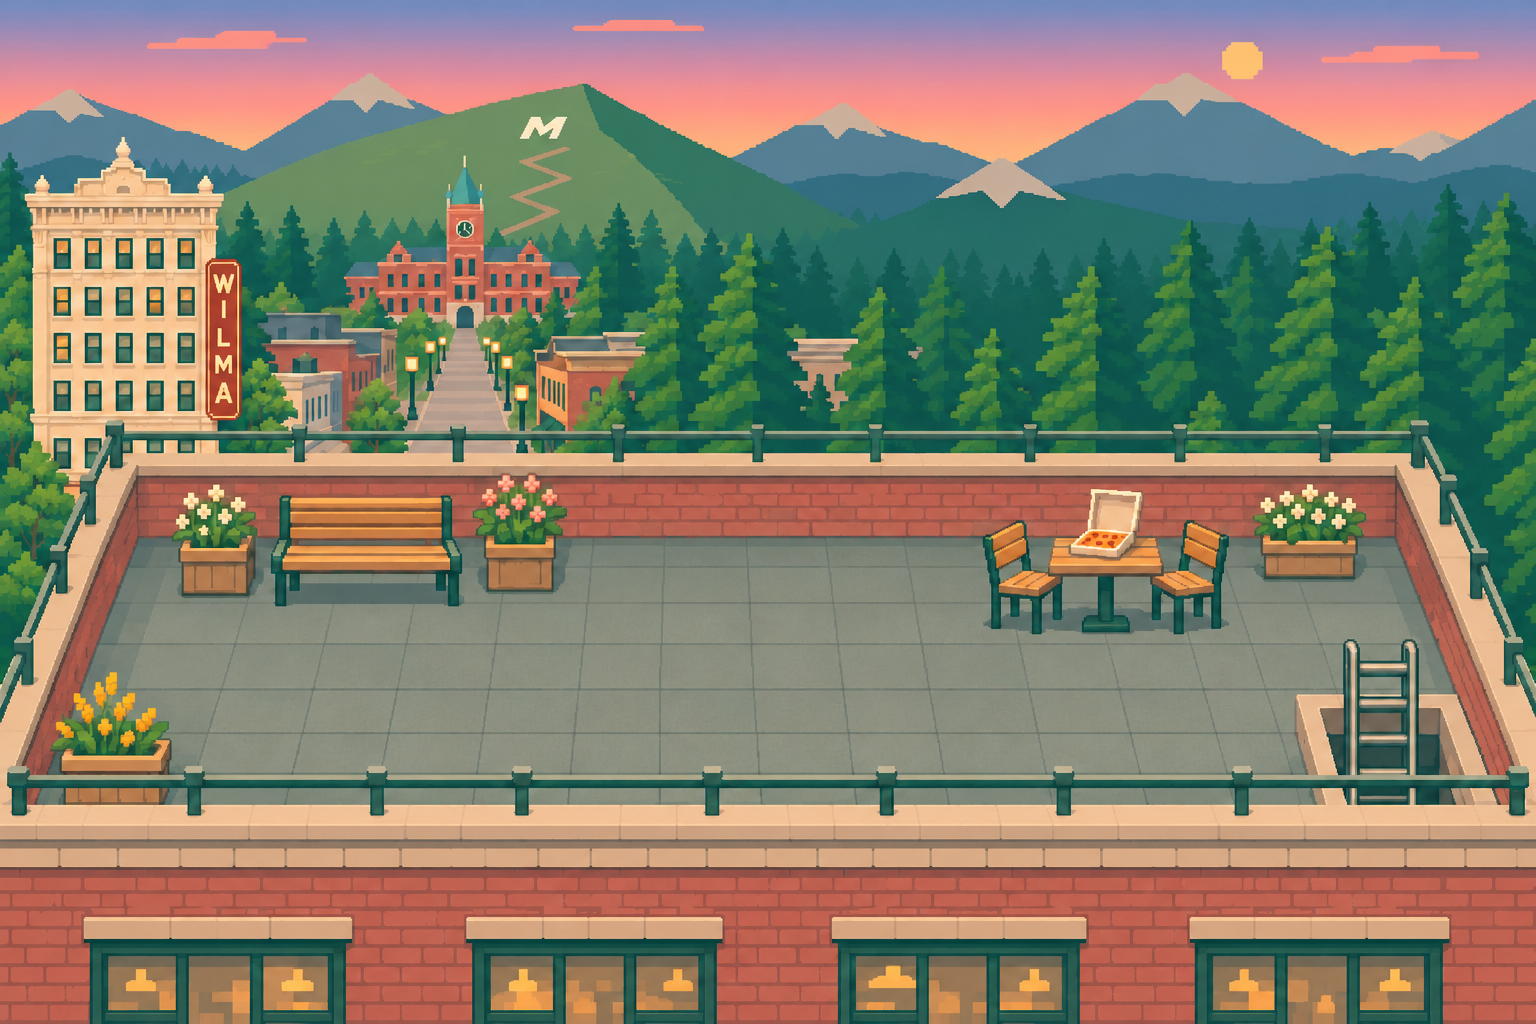
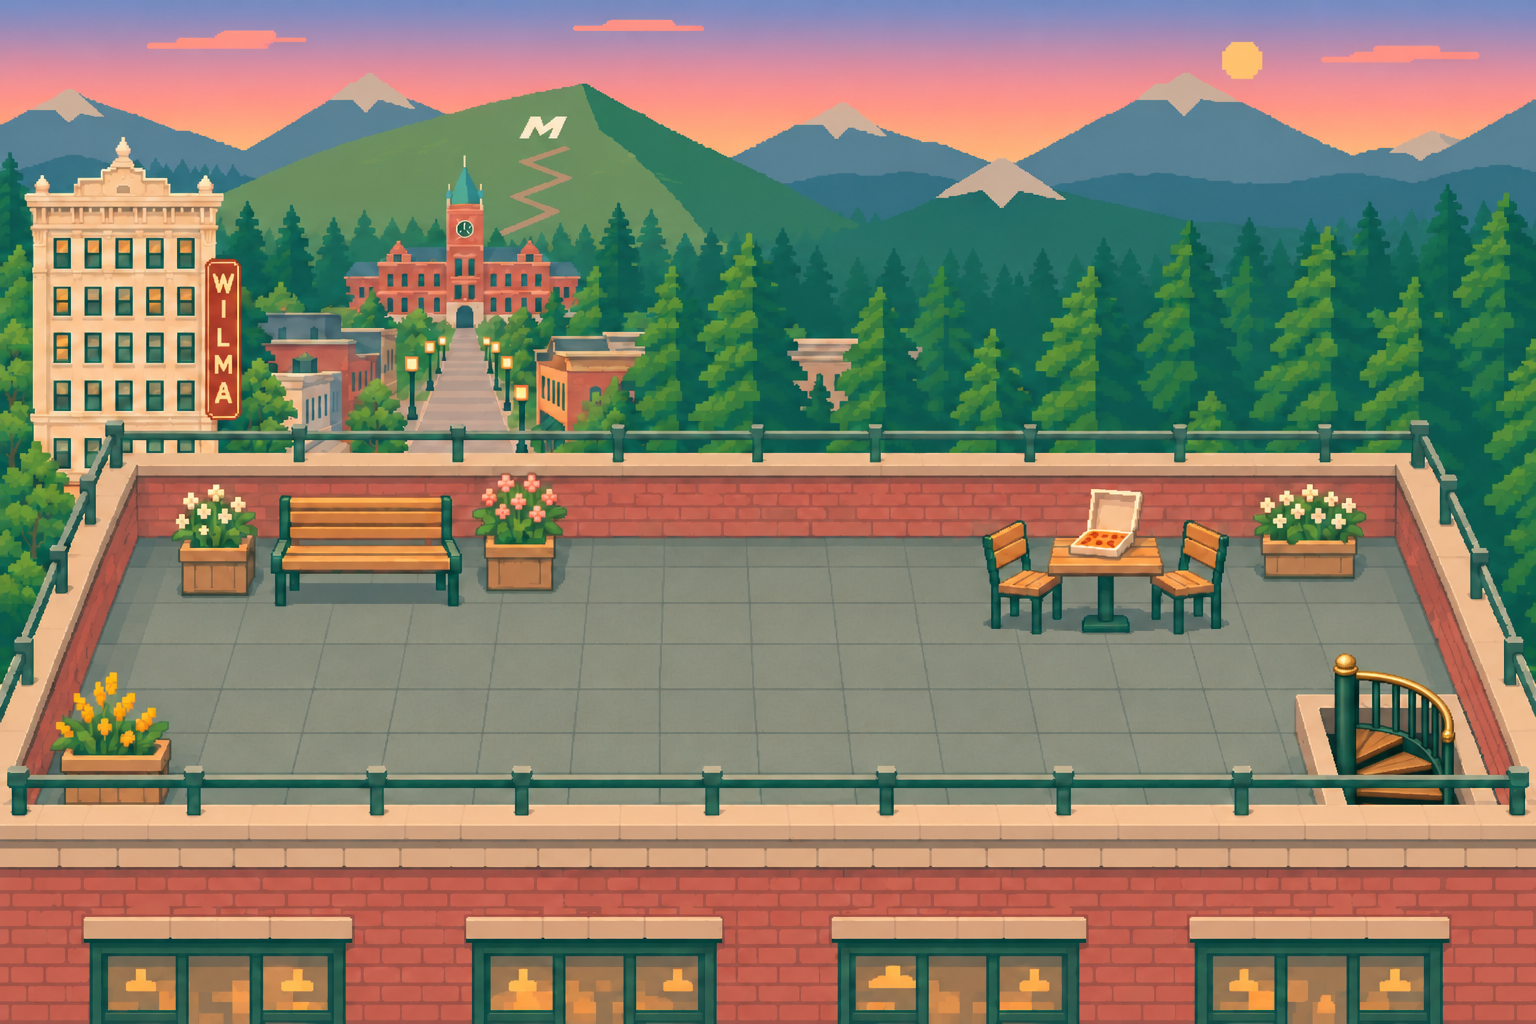
tidy arcade layout (#137)

diff --git a/eightbit/portfolio.js b/eightbit/portfolio.js
@@ -175,7 +175,7 @@ function delivery() {
     if(foundFriend('delivery')) return;
     openDialog('SIDE QUEST COMPLETE', 'pizza makes friends.', '<div class="quest-exchange" aria-label="Pizza delivered. Rooftop key received."><span>🍕</span><span>↔</span><span class="rooftop-key">⚿</span></div><p class="dialog-lead">“you made it! thanks for bringing dinner. here’s the rooftop key. head up whenever you like.”</p><button class="primary" data-room="rooftop">let’s see the view ↑</button>');
   } else if (progress.pizza === 'delivered') { if(!foundFriend('delivery')) pizza(); }
-  else openDialog('A NEIGHBOR ON THE BENCH', 'waiting on a pizza.', '<p class="dialog-lead">“if you’re heading to the arcade, could you pick up my order? it’s at the little pizza table.”</p><button class="secondary" data-room="arcade">head to the arcade →</button>');
+  else openDialog('A NEIGHBOR ON THE BENCH', 'waiting on a pizza.', '<p class="dialog-lead">“if you’re heading to the arcade, could you pick up my order? it’s at the coin counter.”</p><button class="secondary" data-room="arcade">head to the arcade →</button>');
 }
 
 async function photo() {
@@ -200,6 +200,7 @@ function handleAction(action) {
   if (action.startsWith('project:')) { openProject(action.slice(8)); return; }
   const actions = {
     directory, pets: choosePet, passport, about, work, contact, pizza, delivery, photo, help,
+    coins: () => openDialog('THE COIN COUNTER', 'a few quarters?', '<p class="dialog-lead">change for the machines, a place to leave a note, and the occasional pizza pickup for a neighbor.</p><div class="dialog-actions"><button class="primary" data-ui="pizza">ask about the delivery</button><button class="secondary" data-ui="contact">leave a note</button></div>'),
     chef: () => career('chef'), levels: () => career('levels'), recruiting: () => career('recruiting'),
     enter: () => { dismissWelcome(); toast('four friends are hiding. tap the found counter for hints.'); canvas.focus(); },
     dismiss: () => { dismissWelcome(); canvas.focus(); },
@@ -210,7 +211,7 @@ function handleAction(action) {
     campus: () => openDialog('UNIVERSITY OF MONTANA', 'at the end of the street.', '<p class="dialog-lead">a little walk past the storefronts, with mount sentinel in the background.</p><button class="secondary" data-ui="close">back to exploring</button>'),
     river: () => openDialog('ON THE CLARK FORK', "Brennan's Wave", '<p class="dialog-lead">a standing wave in the middle of Missoula. stop along the riverwalk and watch surfers and paddlers take their turns.</p><a class="text-link" href="https://www.missouladowntown.com/caras-park/brennans-wave/" target="_blank" rel="noopener noreferrer">about the wave</a>'),
     books: () => openDialog('ON THE BOOKSHELF', 'away from the keyboard.', '<p class="dialog-lead">reading, games, bjj and poker. a few ways to spend the time between making things.</p><button class="secondary" data-ui="about">a bit more about me →</button>'),
-    roof: () => progress.pizza === 'delivered' ? changeRoom('rooftop') : openDialog('A LOCKED ROOFTOP DOOR', 'someone has the key.', '<p class="dialog-lead">a note on the door: “ask the person waiting on a pizza. they know the way up.”</p><button class="secondary" data-room="arcade">check the pizza counter →</button>'),
+    roof: () => progress.pizza === 'delivered' ? changeRoom('rooftop') : openDialog('A LOCKED ROOFTOP DOOR', 'someone has the key.', '<p class="dialog-lead">a note on the door: “ask the person waiting on a pizza. they know the way up.”</p><button class="secondary" data-room="arcade">check the coin counter →</button>'),
     view: () => openDialog('ABOVE IT ALL', 'a pretty good place to pause.', '<p class="dialog-lead">thanks for taking the long way around. hope you found something you liked.</p><button class="secondary" data-ui="contact">say hello before you go ↗</button>'),
     'take-pizza': () => { progress.pizza = 'carrying'; updateInventory(); closeDialog(); toast('pizza acquired. find the neighbor on the town bench.'); },
     download: () => { world.postcard(postcardPose).toBlob(blob => { if (!blob) return; const url = URL.createObjectURL(blob), link = document.createElement('a'); link.href = url; link.download = '8-bit-missoula-postcard.png'; link.click(); setTimeout(() => URL.revokeObjectURL(url), 1000); }); },

diff --git a/eightbit/scenes.js b/eightbit/scenes.js
@@ -23,12 +23,12 @@ export const scenes = {
   arcade: {
     name: 'last best arcade', subtitle: 'quarters in. real world out.', width: 768, height: 512,
     spawn: { x: 384, y: 456 }, bounds: [16, 256, 752, 504], grid: 8,
-    obstacles: [[24,256,144,96], [560,256,180,104], [16,336,112,156], [628,344,120,136], [165,340,80,70]],
+    obstacles: [[100,256,100,70], [60,300,105,80], [16,360,108,84], [495,305,165,110], [630,30,120,450], [176,345,134,98]],
     points: [
       ...[['lilgotchi','meet lilgotchi',240],['snowcrust','play snowcrust',288],['relay','try relay',336],['fight','fight terminal',384],['sweat','mr game and sweat',432],['moonbean','moonbean coffee',480],['reachoutt','reachoutt',528]].map(([id,label,x]) => point(id,label,x,280,`project:${id}`,{hit:[x-22,132,44,128]})),
-      point('hidden-cypunk','look beside the pinball',184,320,'find:cypunk',{hit:[172,295,24,32]}),
-      point('poker','poker seater',544,320,'project:poker',{hit:[560,256,180,104]}),
-      point('pizza','pizza delivery',208,432,'pizza',{hit:[165,340,80,70]}),
+      point('hidden-cypunk','look beside the pinball',224,328,'find:cypunk',{hit:[213,315,24,32]}),
+      point('poker','poker seater',480,360,'project:poker',{hit:[495,305,165,110]}),
+      point('pizza','coin counter',344,416,'coins',{hit:[176,345,134,98]}),
       point('photo','take a photo',480,376,'photo'),
       point('roof','stairs to the rooftop',608,456,'roof',{hit:[628,344,120,136]}),
       point('exit','back to main street',384,488,'room:town',{hit:[336,480,96,32]}),

diff --git a/eightbit/hunt.js b/eightbit/hunt.js
@@ -1,7 +1,7 @@
 export const discoveries = [
   {id:'lilgotchi',event:'books',room:'cabin',x:410,y:255,hint:'someone small is reading in the house. look closely at the bookshelf.'},
   {id:'slice',event:'delivery',room:'town',x:552,y:622,hint:'the neighbor on the bench ordered dinner. bring the pizza from the arcade.'},
-  {id:'cypunk',event:'find:cypunk',room:'arcade',x:183,y:317,hint:'listen with your eyes. a tiny friend is hiding beside the pinball tables.'},
+  {id:'cypunk',event:'find:cypunk',room:'arcade',x:225,y:337,hint:'listen with your eyes. a tiny friend is hiding beside the pinball tables.'},
   {id:'original',event:'find:original',room:'town',x:336,y:644,hint:'take the upper river path west of the bridge. check behind the leafy tree.'},
 ];
 

diff --git a/eightbit/residents.js b/eightbit/residents.js
@@ -138,7 +138,7 @@ export function drawResident(ctx, resident, time, reduced) {
 
 // Regulars stay at decorative machines, leaving every project cabinet available.
 export const arcadeRegulars = [
-  [155, 280, 0, 'pinball'], [118, 337, 4, 'pinball'], [640, 286, 5, 'poker'],
+  [204, 292, 0, 'pinball'], [165, 340, 4, 'pinball'], [575, 341, 5, 'poker'],
 ].map(([x, y, look, playing]) => ({ x, y, look: { ...looks[look], scale: .85 }, direction: playing === 'poker' ? 'down' : 'up', playing }));
 
 export function drawArcadeRegular(ctx, resident, time, reduced) {

diff --git a/eightbit/interior-view.js b/eightbit/interior-view.js
@@ -37,7 +37,7 @@ export function roofSky(ctx, light) {
   ctx.save(); ctx.scale(.5,.5); ctx.beginPath();
   edge.forEach(([x,y],index)=>index?ctx.lineTo(x,y ? y+3 : 0):ctx.moveTo(x,y));
   ctx.closePath(); ctx.clip();
-  ctx.globalAlpha=Math.max(0,Math.min(1,(light.phase-.06)/.08,(1-light.phase)/.06));
+  ctx.globalAlpha=1;
   paintSky(ctx,1536,210,light);
   ctx.restore();
 }

diff --git a/8BIT_MISSOULA_TODO.md b/8BIT_MISSOULA_TODO.md
@@ -31,11 +31,19 @@ Updated November 20, 2026.
 | Hints, saved collection and walking companions | PR 117. Found friends unlock as companions, old adopted pets and completed deliveries carry forward |
 | Completion reward | PR 117. Missoula postcard with three poses and PNG download, including loading the roof before first use |
 | Preserve the project arcade | Project dialogs, previews and demos remain available alongside the hunt |
-| No new sound | Existing optional sound kept unchanged |
+| Cozy music and occasional Scout woofs | Added after the later sound request. Optional toggle retained. Scheduling tested, audio not listened to in this review |
+| Faster Scout and squirrel, nub tail, changing direction and woodland clipping | Implemented with chase and depth tests, visually reviewed through the day cycle |
+| Bald player, neighbor hair, passing through the player | PRs 126, 128, 133 and 134 |
+| Five monitor desk, gaming pc and L through the window | PR 125 |
+| Arcade poses, legs, patio removal and small poker plaque | PRs 127 and 132, with front furniture superseded by the coin counter |
+| Arcade roof matches outside, wildlife stays behind buildings, header icon | PRs 129 through 131 |
+| Spiral stairs to the roof | PR 135, extended through the ceiling in the latest layout followup |
+| Aligned third pinball and coin counter | Latest layout followup, delivery interaction preserved, matching rooftop stair opening |
+| Full day visual review | PR 136 fixes lamps, labels, sky, raft clearance, room sizing and bench pose. See the review below |
 
 ## Verification
 
-1. 44 automated tests pass, including routes, scenery clearance, saved progress, discovery conditions, wildlife phases and reduced motion.
+1. 50 automated tests pass, including routes, scenery clearance, saved progress, discovery conditions, wildlife phases and reduced motion.
 2. Actual browser checks covered desktop and phone layouts, the arcade, house and rooftop, all four discoveries, hints, companion selection, saved progress after reload and the postcard reward.
 3. The carousel round trip was repeated after the town and movement changes. Both arrival and return to main street passed.
 4. Each change has its own branch and PR with browser screenshots.
@@ -60,3 +68,7 @@ Basal: https://www.basalhospitality.com/
 Shakespeare & Co.: https://www.shakespeareandco.com/
 
 SBG Missoula: https://sbgmissoula.com/
+
+## latest review
+
+[Full request audit and review limits](docs/missoula-review.md). The latest check repeated the carousel route, house, arcade, stairs in both directions, desktop and phone layouts, and periodic observations across a full day cycle after fixes. Earlier collection and postcard checks above were not all repeated in this pass.

diff --git a/docs/missoula-review.md b/docs/missoula-review.md
@@ -39,10 +39,10 @@ reviewed november 20, 2026
 
 ## scope of the review
 
-the first timed pass covered sunset, blue hour, night, dawn, daytime and the return to sunset at normal speed. observations were periodic screenshots across the full cycle, not a frame by frame video review. the second pass repeats the cycle after the fixes.
+the first timed pass covered sunset, blue hour, night, dawn, daytime and the return to sunset at normal speed. observations were periodic screenshots across the full cycle, not a frame by frame video review. the second pass caught the double sun near the cycle wrap. a third full cycle after that fix showed no additional clipping or lighting issues in the observed frames.
 
 this is a checked result, not a promise that every possible screen size and animation frame is perfect. phone checks use a 390 by 844 browser viewport, not a physical phone.
 
 the carousel dialog gives its opening date, ring catching and speed with source links. it does not repeat the unverified oldest carousel claim.
 
-the latest arcade followup is separate work: align the new pinball with the row, extend the stairs through the ceiling and replace the pizza table with a coin counter.
+the arcade followup aligns all three pinballs, extends the spiral stairs through the ceiling, adds a matching rooftop opening and replaces the pizza table with a coin counter. the counter preserves the delivery quest. the poker table and interaction areas moved to keep the cabinet aisle open. desktop and phone views were inspected, and the stairs worked in both directions. all 50 automated tests pass.
